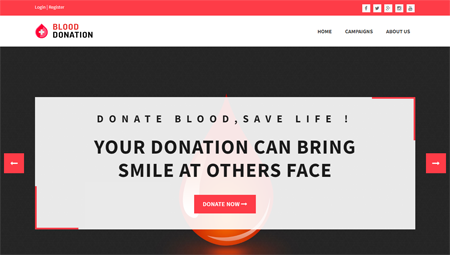
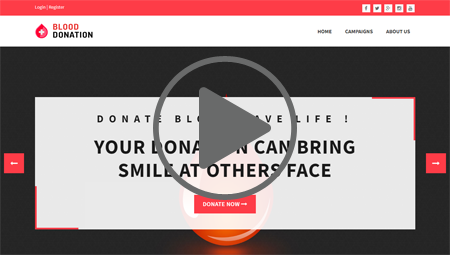
New thumb

Changed region(s): [[0.3422, 0.2196, 0.6844, 0.7961]]

diff --git a/index.html b/index.html
@@ -63,10 +63,10 @@
                         <h2 class="heading">Latest Projects</h2>
                         <div class="content">
                             <div class="item featured text-center">
-                                <h3 class="title"><a>Blood Donors Online Platform - Website</a></h3>
+                                <h3 class="title"><a class="productVideoPOP" href="https://www.youtube.com/watch?v=c9OHKyZLB1Y">Blood Donors Online Platform - Website</a></h3>
                                 <p class="summary"></p>
                                 <div class="featured-image has-ribbon">
-                                    <a>
+                                    <a class="productVideoPOP" href="https://www.youtube.com/watch?v=c9OHKyZLB1Y">
                                         <img style="width: 100%" class="img-fluid project-image" src="assets/images/projects/blood_thumb.jpg" alt="Blood Donors Online Platform - Website" />
                                     </a>
                                     <div class="ribbon">
@@ -193,10 +193,10 @@
                                 <h3 class="title">Freelance Web Developer - <span class="place"><a href="#">Fiverr</a></span> <span class="year">(2017 - Present)</span></h3>
                                 <p>Working on Fiverr since 2017 as a Freelacer. I have worked with many clients from many different counties with 100% satisfaction. I have developed many web applications and still counting.</p>
                             </div>
-                            <div class="item">
+                            <!-- <div class="item">
                                 <h3 class="title">Founder & Full Stack Developer - <span class="place"><a href="#">TrendingWhat.ML</a></span> <span class="year">(2016 - Present)</span></h3>
                                 <p>This website was a startup SAAS Platfrom. Which acted as third party API service, It provied news feed from many different popular website of many different countuies. This project is under mantainance now.</p>
-                            </div>
+                            </div> -->
                         </div>
                     </div>
                 </section>
